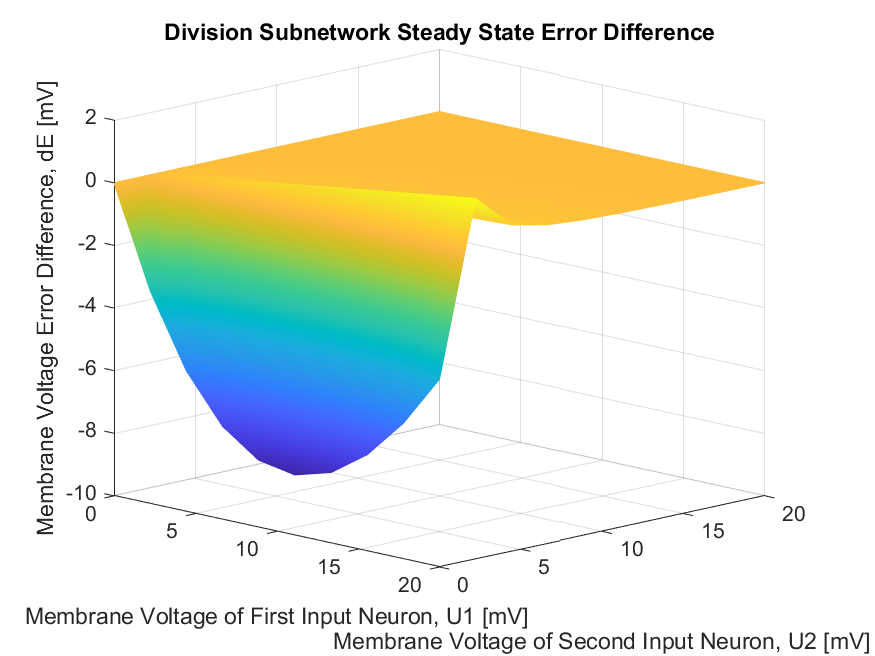
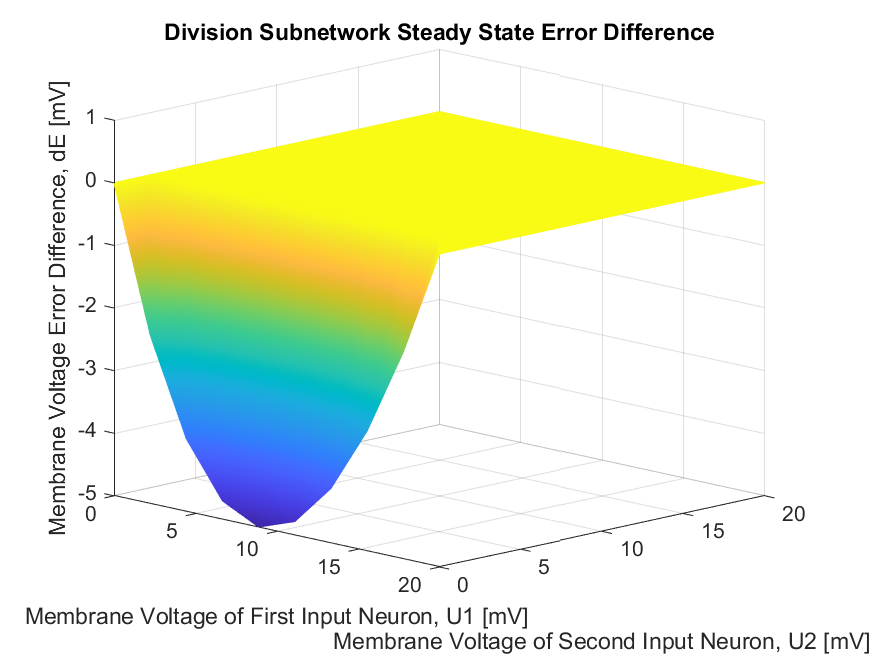
Additional work on division after inversion error comparison.

Changed region(s): [[0.1234, 0.1524, 0.864, 0.8232], [0.0309, 0.122, 0.1234, 0.8232]]

diff --git a/Code/Matlab/Quadruped_Simulation_Framework/Main/Simulation/Software/Multistate_CPG_Phase_Alignment/Examples/division_after_inversion_subnetwork_error_comparison.m b/Code/Matlab/Quadruped_Simulation_Framework/Main/Simulation/Software/Multistate_CPG_Phase_Alignment/Examples/division_after_inversion_subnetwork_error_comparison.m
@@ -19,9 +19,17 @@ network_tf = 3;
 %% Create Absolute Division Subnetwork
 
 % Set the necessary parameters.
-R1_absolute = 20e-3;                               	% [V] Activation Domain
+% R1_absolute = 20e-3;                                 % [V] Activation Domain
+% R2_absolute = 20e-3;                                 % [V] Activation Domain
+% c1_absolute = 0.76e-9;                               % [W] Division Parameter 1
+% c3_absolute = 0.40e-9;                               % [W] Division Parameter 3
+% delta1_absolute = 1e-3;                              % [V] Inversion Offset
+% delta2_absolute = 2e-3;                              % [V] Division Offset
+% dEs31_absolute = 194e-3;                             % [V] Synaptic Reversal Potential
+
+R1_absolute = 20e-3;                                 % [V] Activation Domain
 R2_absolute = 20e-3;                                 % [V] Activation Domain
-c1_absolute = 0.76e-9;                               % [W] Division Parameter 1
+c1_absolute = 2.28e-9;                               % [W] Division Parameter 1
 c3_absolute = 0.40e-9;                               % [W] Division Parameter 3
 delta1_absolute = 1e-3;                              % [V] Inversion Offset
 delta2_absolute = 2e-3;                              % [V] Division Offset
@@ -37,7 +45,7 @@ Iapp3_absolute = 0;                                                             
 Gm3_absolute = c3_absolute/( R1_absolute*R2_absolute );                                                                         % [S] Membrane Conductance
 
 % Print a summary of the relevant network parameters.
-fprintf( 'ABSOLUTE DIVISION SUBNETWORK PARAMETERS:\n' )
+fprintf( 'ABSOLUTE DIVISION AFTER INVERSION SUBNETWORK PARAMETERS:\n' )
 fprintf( 'R1 = %0.2f [mV]\n', R1_absolute*( 10^3 ) )
 fprintf( 'R2 = %0.2f [mV]\n', R2_absolute*( 10^3 ) )
 fprintf( 'R3 = %0.2f [mV]\n', R3_absolute*( 10^3 ) )
@@ -98,7 +106,7 @@ Iapp3_relative = 0;                                                             
 Gm3_relative = c3_relative;                                                                                                                               % [S] Membrane Conductance
 
 % Print a summary of the relevant network parameters.
-fprintf( '\nRELATIVE DIVISION SUBNETWORK PARAMETERS:\n' )
+fprintf( '\nRELATIVE DIVISION AFTER INVERSION SUBNETWORK PARAMETERS:\n' )
 fprintf( 'R1 = %0.2f [mV]\n', R1_relative*( 10^3 ) )
 fprintf( 'R2 = %0.2f [mV]\n', R2_relative*( 10^3 ) )
 fprintf( 'R3 = %0.2f [mV]\n', R3_relative*( 10^3 ) )
@@ -139,8 +147,8 @@ network_relative.applied_current_manager = network_relative.applied_current_mana
 %% Load the Absolute & Relative Division Subnetworks
 
 % Load the simulation results.
-absolute_division_simulation_data = load( [ load_directory, '\', 'absolute_division_subnetwork_error' ] );
-relative_division_simulation_data = load( [ load_directory, '\', 'relative_division_subnetwork_error' ] );
+absolute_division_simulation_data = load( [ load_directory, '\', 'absolute_division_after_inversion_subnetwork_error' ] );
+relative_division_simulation_data = load( [ load_directory, '\', 'relative_division_after_inversion_subnetwork_error' ] );
 
 % Store the absolute simulation results in separate variables.
 Absolute_Applied_Currents1 = absolute_division_simulation_data.Applied_Currents1;
@@ -239,7 +247,7 @@ Us1_achieved_relative = Us_achieved_relative( :, :, 1 );
 Us2_achieved_relative = Us_achieved_relative( :, :, 2 );
 
 % Print out the absolute division summary statistics.
-fprintf( 'Absolute Division Summary Statistics\n' )
+fprintf( 'Absolute Division After Inversion Summary Statistics\n' )
 fprintf( 'MSE: \t\t\t%9.3e [mV] (%6.2f [%%])\n', mse_absolute, mse_absolute_percent )
 fprintf( 'STD: \t\t\t%9.3e [mV] (%6.2f [%%])\n', std_absolute, std_absolute_percent )
 fprintf( 'Max Error: \t\t%9.3e [mV] (%6.2f [%%]) @ (%9.3e [mV], %9.3e [mV], %9.3e [mV])\n', error_absolute_max, error_absolute_max_percent, Us1_achieved_absolute( index_absolute_max ), Us2_achieved_absolute( index_absolute_max ), 20e-3 )
@@ -247,7 +255,7 @@ fprintf( 'Min Error: \t\t%9.3e [mV] (%6.2f [%%]) @ (%9.3e [mV], %9.3e [mV], %9.3
 fprintf( 'Range Error: \t%0.3e [mV] (%6.2f [%%])\n', error_absolute_range, error_absolute_range_percent )
 
 fprintf( '\n' )
-fprintf( 'Relative Division Summary Statistics\n' )
+fprintf( 'Relative Division After Inversion Summary Statistics\n' )
 fprintf( 'MSE: \t\t\t%9.3e [mV] (%6.2f [%%])\n', mse_relative, mse_relative_percent )
 fprintf( 'STD: \t\t\t%9.3e [mV] (%6.2f [%%])\n', std_relative, std_relative_percent )
 fprintf( 'Max Error: \t\t%9.3e [mV] (%6.2f [%%]) @ (%9.3e [mV], %9.3e [mV], %9.3e [mV])\n', error_relative_max, error_relative_max_percent, Us1_achieved_relative( index_relative_max ), Us2_achieved_relative( index_relative_max ), 20e-3 )
@@ -255,7 +263,7 @@ fprintf( 'Min Error: \t\t%9.3e [mV] (%6.2f [%%]) @ (%9.3e [mV], %9.3e [mV], %9.3
 fprintf( 'Range Error: \t%0.3e [mV] (%6.2f [%%])\n', error_relative_range, error_relative_range_percent )
 
 fprintf( '\n' )
-fprintf( 'Absolute vs Relative Division Summary Statistics:\n' )
+fprintf( 'Absolute vs Relative Division After Inversion Summary Statistics:\n' )
 fprintf( 'delta MSE: \t\t\t%9.3e [mV] (%6.2f [%%])\n', error_difference_mse, error_difference_mse_percent )
 fprintf( 'delta STD:\t%9.3e [V] (%6.2f [%%])\n', error_difference_std, error_difference_std_percent )
 fprintf( 'delta Max Error:\t%9.3e [mV] (%6.2f [%%])\n', error_difference_max, error_difference_max_percent )
@@ -271,7 +279,7 @@ legend( { 'Desired', 'Achieved' }, 'Location', 'Bestoutside', 'Orientation', 'Ho
 view( -45, 15 )
 % colormap( get_bichromatic_colormap(  ) )
 % colorbar(  )
-saveas( fig, [ save_directory, '\', 'Absolute_Division_Subnetwork_Steady_State_Response.png' ] )
+saveas( fig, [ save_directory, '\', 'Absolute_Division_After_Inversion_Subnetwork_Steady_State_Response.png' ] )
 
 % Create a figure that shows the differences between the achieved and desired membrane voltage outputs for the relative division subnetwork.
 fig = figure( 'color', 'w' ); hold on, grid on, rotate3d on, xlabel( 'Membrane Voltage of First Input Neuron, U1 [mV]' ), ylabel( 'Membrane Voltage of Second Input Neuron, U2 [mV]' ), zlabel( 'Membrane Voltage of Output Neuron, U3 [mV]' ), title( 'Relative Division Subnetwork Steady State Response (Comparison)' )
@@ -281,7 +289,7 @@ legend( { 'Desired', 'Achieved' }, 'Location', 'Bestoutside', 'Orientation', 'Ho
 view( -45, 30 )
 % colormap( get_bichromatic_colormap(  ) )
 % colorbar(  )
-saveas( fig, [ save_directory, '\', 'Relative_Division_Subnetwork_Steady_State_Response.png' ] )
+saveas( fig, [ save_directory, '\', 'Relative_Division_After_Inversion_Subnetwork_Steady_State_Response.png' ] )
 
 % Create a surface that shows the membrane voltage error.
 fig = figure( 'color', 'w' ); hold on, grid on, rotate3d on, xlabel( 'Membrane Voltage of First Input Neuron, U1 [mV]' ), ylabel( 'Membrane Voltage of Second Input Neuron, U2 [mV]' ), zlabel( 'Membrane Voltage Error, E [mV]' ), title( 'Division Subnetwork Steady State Error' )
@@ -291,7 +299,7 @@ legend( { 'Absolute', 'Relative' }, 'Location', 'Bestoutside', 'Orientation', 'H
 view( 45, 15 )
 % colormap( get_bichromatic_colormap(  ) )
 % colorbar(  )
-saveas( fig, [ save_directory, '\', 'Division_Subnetwork_Approximation_Error_Comparison.png' ] )
+saveas( fig, [ save_directory, '\', 'Division_After_Inversion_Subnetwork_Approximation_Error_Comparison.png' ] )
 
 % Create a surface that shows the membrane voltage error percentage.
 fig = figure( 'color', 'w' ); hold on, grid on, rotate3d on, xlabel( 'Membrane Voltage of First Input Neuron, U1 [mV]' ), ylabel( 'Membrane Voltage of Second Input Neuron, U2 [mV]' ), zlabel( 'Membrane Voltage Error Percentage, E [%]' ), title( 'Division Subnetwork Steady State Error Percentage' )
@@ -301,7 +309,7 @@ legend( { 'Absolute', 'Relative' }, 'Location', 'Bestoutside', 'Orientation', 'H
 view( 45, 15 )
 % colormap( get_bichromatic_colormap(  ) )
 % colorbar(  )
-saveas( fig, [ save_directory, '\', 'Division_Subnetwork_Approximation_Error_Percentage_Comparison.png' ] )
+saveas( fig, [ save_directory, '\', 'Division_After_Inversion_Subnetwork_Approximation_Error_Percentage_Comparison.png' ] )
 
 % Create a surface that shows the difference in error between the absolute and relative division subnetworks.
 fig = figure( 'color', 'w' ); hold on, grid on, rotate3d on, xlabel( 'Membrane Voltage of First Input Neuron, U1 [mV]' ), ylabel( 'Membrane Voltage of Second Input Neuron, U2 [mV]' ), zlabel( 'Membrane Voltage Error Difference, dE [mV]' ), title( 'Division Subnetwork Steady State Error Difference' )
@@ -309,7 +317,7 @@ surf( Us_achieved_absolute( :, :, 1 )*(10^3), Us_achieved_absolute( :, :, 2 )*(1
 view( 45, 15 )
 % colormap( get_bichromatic_colormap(  ) )
 % colorbar(  )
-saveas( fig, [ save_directory, '\', 'Division_Subnetwork_Approximation_Error_Difference.png' ] )
+saveas( fig, [ save_directory, '\', 'Division_After_Inversion_Subnetwork_Approximation_Error_Difference.png' ] )
 
 % Create a surface that shows the difference in error between the absolute and relative percent division subnetworks.
 fig = figure( 'color', 'w' ); hold on, grid on, rotate3d on, xlabel( 'Membrane Voltage of First Input Neuron, U1 [mV]' ), ylabel( 'Membrane Voltage of Second Input Neuron, U2 [mV]' ), zlabel( 'Membrane Voltage Error Difference Percentage, dE [%]' ), title( 'Division Subnetwork Steady State Error Percentage Difference' )
@@ -317,5 +325,5 @@ surf( Us_achieved_absolute( :, :, 1 )*(10^3), Us_achieved_absolute( :, :, 2 )*(1
 view( 45, 15 )
 % colormap( get_bichromatic_colormap(  ) )
 % colorbar(  )
-saveas( fig, [ save_directory, '\', 'Division_Subnetwork_Approximation_Error_Percentage_Difference.png' ] )
+saveas( fig, [ save_directory, '\', 'Division_After_Inversion_Subnetwork_Approximation_Error_Percentage_Difference.png' ] )
 

diff --git a/Code/Matlab/Quadruped_Simulation_Framework/Main/Simulation/Software/Multistate_CPG_Phase_Alignment/Examples/absolute_division_after_inversion_subnetwork_error.m b/Code/Matlab/Quadruped_Simulation_Framework/Main/Simulation/Software/Multistate_CPG_Phase_Alignment/Examples/absolute_division_after_inversion_subnetwork_error.m
@@ -32,13 +32,31 @@ network_tf = 3;
 % delta2 = 2e-3;                              % [V] Division Offset
 % dEs31 = 194e-3;                             % [V] Synaptic Reversal Potential
 
+% These parameters make the absolute and relative inversion cases the same.
+% R1 = 20e-3;                               	% [V] Activation Domain
+% R2 = 20e-3;                                 % [V] Activation Domain
+% c1 = 0.76e-9;                               % [W] Division Parameter 1
+% c3 = 0.40e-9;                               % [W] Division Parameter 3
+% delta1 = 1e-3;                              % [V] Inversion Offset
+% delta2 = 2e-3;                              % [V] Division Offset
+% dEs31 = 194e-3;                             % [V] Synaptic Reversal Potential
+
 R1 = 20e-3;                               	% [V] Activation Domain
 R2 = 20e-3;                                 % [V] Activation Domain
-c1 = 0.76e-9;                               % [W] Division Parameter 1
+c1 = 2.28e-9;                               % [W] Division Parameter 1
 c3 = 0.40e-9;                               % [W] Division Parameter 3
 delta1 = 1e-3;                              % [V] Inversion Offset
 delta2 = 2e-3;                              % [V] Division Offset
 dEs31 = 194e-3;                             % [V] Synaptic Reversal Potential
+
+% Absolute division without inversion parameters.
+% R1 = 20e-3;                                         % [V] Activation Domain
+% R2 = 20e-3;                                         % [V] Activation Domain
+% c1 = 1.20e-9;                                       % [W] Absolute Division Parameter 1
+% c3 = 0.40e-9;                                       % [W] Absolute Division Parameter 3
+% delta = 1e-3;                                       % [V] Modulated Output Membrane Voltage
+% dEs31 = 194e-3;                                     % [V] Synaptic Reversal Potential
+
 
 % Set the number of division neurons.
 num_division_neurons = 3;

diff --git a/Code/Matlab/Quadruped_Simulation_Framework/Main/Simulation/Software/Multistate_CPG_Phase_Alignment/Examples/relative_division_after_inversion_subnetwork_error.m b/Code/Matlab/Quadruped_Simulation_Framework/Main/Simulation/Software/Multistate_CPG_Phase_Alignment/Examples/relative_division_after_inversion_subnetwork_error.m
@@ -24,9 +24,17 @@ network_dt = 1e-4;
 network_tf = 3;
 
 % Set the necessary parameters.
+% R1 = 20e-3;                                 % [V] Activation Domain
+% R2 = 20e-3;                                 % [V] Activation Domain
+% R3 = 20e-3;                                 % [V] Activation Domain
+% c3 = 1e-6;                                  % [S] Division Parameter 3
+% delta1 = 1e-3;                              % [V] Inversion Offset
+% delta2 = 2e-3;                              % [V] division Offset
+% dEs31 = 194e-3;                             % [V] Synaptic Reversal Potential
+
 R1 = 20e-3;                                 % [V] Activation Domain
 R2 = 20e-3;                                 % [V] Activation Domain
-R3 = 20e-3;                                 % [V] Activation Domain
+R3 = 30e-3;                                 % [V] Activation Domain
 c3 = 1e-6;                                  % [S] Division Parameter 3
 delta1 = 1e-3;                              % [V] Inversion Offset
 delta2 = 2e-3;                              % [V] division Offset

diff --git a/Code/Matlab/Quadruped_Simulation_Framework/Main/Simulation/Software/Multistate_CPG_Phase_Alignment/Examples/absolute_division_after_inversion_subnetwork_example.m b/Code/Matlab/Quadruped_Simulation_Framework/Main/Simulation/Software/Multistate_CPG_Phase_Alignment/Examples/absolute_division_after_inversion_subnetwork_example.m
@@ -32,9 +32,18 @@ network_tf = 3;
 % delta2 = 2e-3;
 % dEs31 = 194e-3;
 
+% These parameters make the absolute response make the relative response.
+% R1 = 20e-3;
+% R2 = 20e-3;
+% c1 = 0.76e-9;
+% c3 = 0.40e-9;
+% delta1 = 1e-3;
+% delta2 = 2e-3;
+% dEs31 = 194e-3;
+
 R1 = 20e-3;
 R2 = 20e-3;
-c1 = 0.76e-9;
+c1 = 2.28e-9;
 c3 = 0.40e-9;
 delta1 = 1e-3;
 delta2 = 2e-3;
